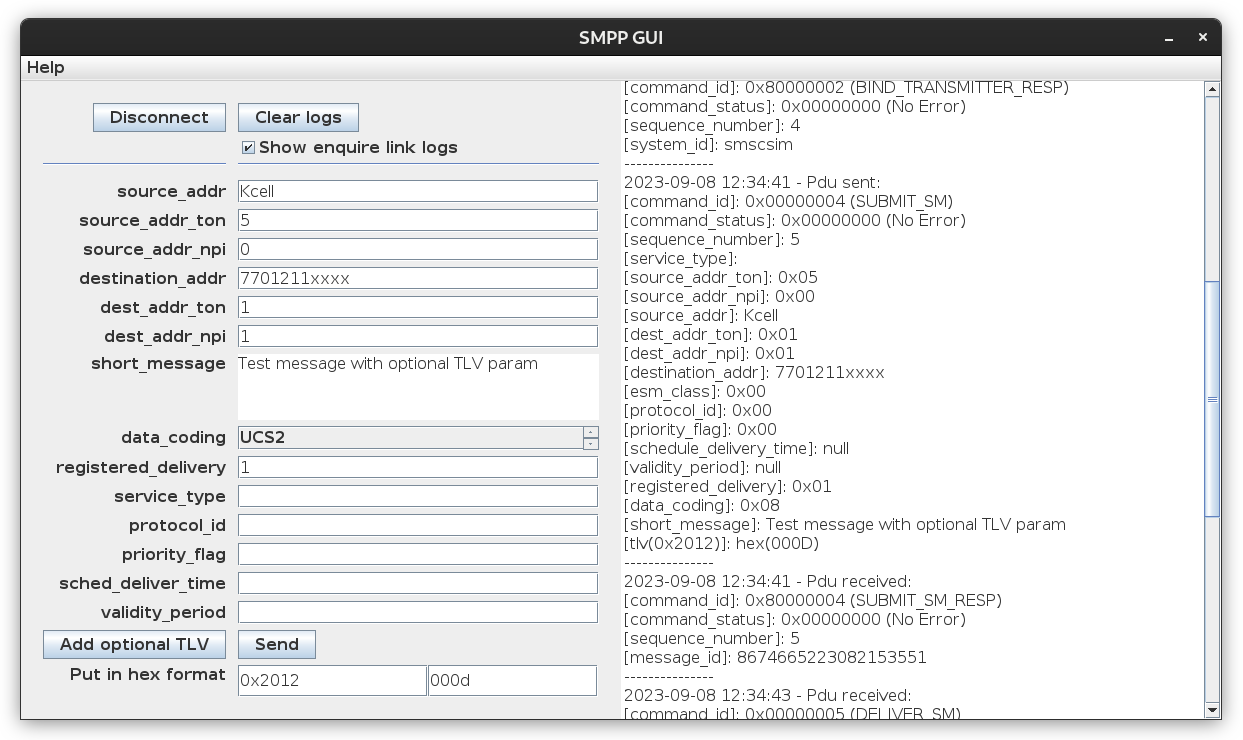
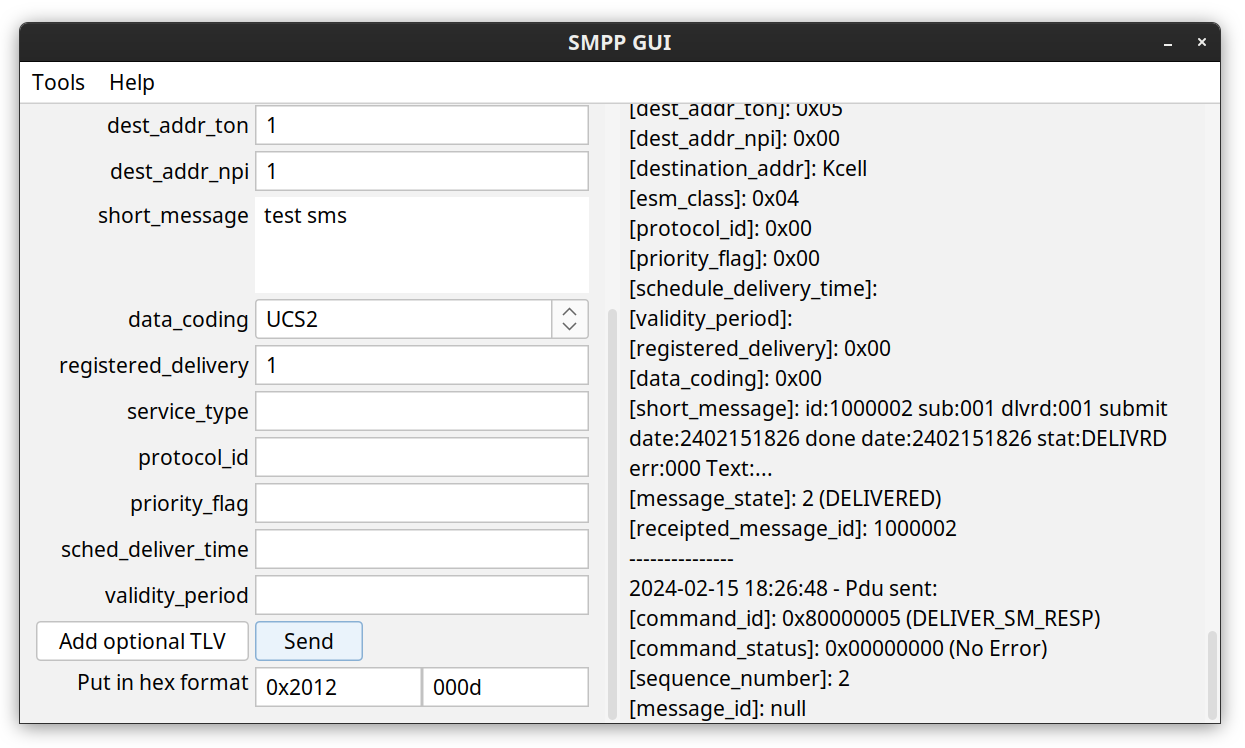
Screenshot updated. Fixed str-to-hex tool's width

Changed region(s): [[0.0, 0.0, 1.0, 0.9946], [0.8254, 0.6838, 0.856, 0.7149]]

diff --git a/src/main/java/com/ukarim/smppgui/gui/MainFrame.java b/src/main/java/com/ukarim/smppgui/gui/MainFrame.java
@@ -95,7 +95,7 @@ public class MainFrame extends JFrame {
         JTextArea jTextAreaText = new JTextArea();
         jTextAreaText.setLineWrap(true);
         jTextAreaText.setRows(5);
-        jTextAreaText.setSize(500, 1);
+        jTextAreaText.setColumns(30);
         JScrollPane jScrollPaneText = new JScrollPane(jTextAreaText);
         jScrollPaneText.setVerticalScrollBarPolicy(JScrollPane.VERTICAL_SCROLLBAR_AS_NEEDED);
 
@@ -135,8 +135,8 @@ public class MainFrame extends JFrame {
                 JTextArea jTextAreaConvertedHexValue = new JTextArea(convertedHexValue);
                 jTextAreaConvertedHexValue.setEditable(false);
                 jTextAreaConvertedHexValue.setRows(5);
+                jTextAreaConvertedHexValue.setColumns(30);
                 jTextAreaConvertedHexValue.setLineWrap(true);
-                jTextAreaConvertedHexValue.setSize(500, 1);
                 JScrollPane scroll = new JScrollPane(jTextAreaConvertedHexValue);
                 scroll.setVerticalScrollBarPolicy(JScrollPane.VERTICAL_SCROLLBAR_ALWAYS);
 
